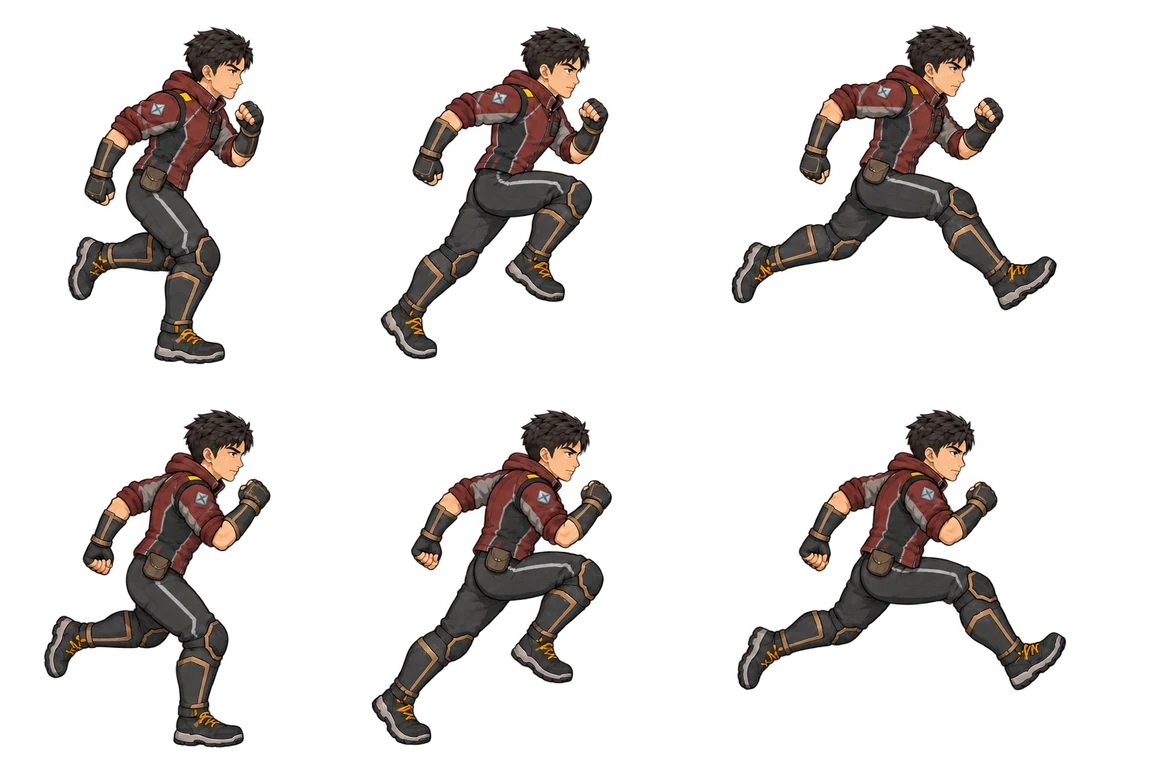
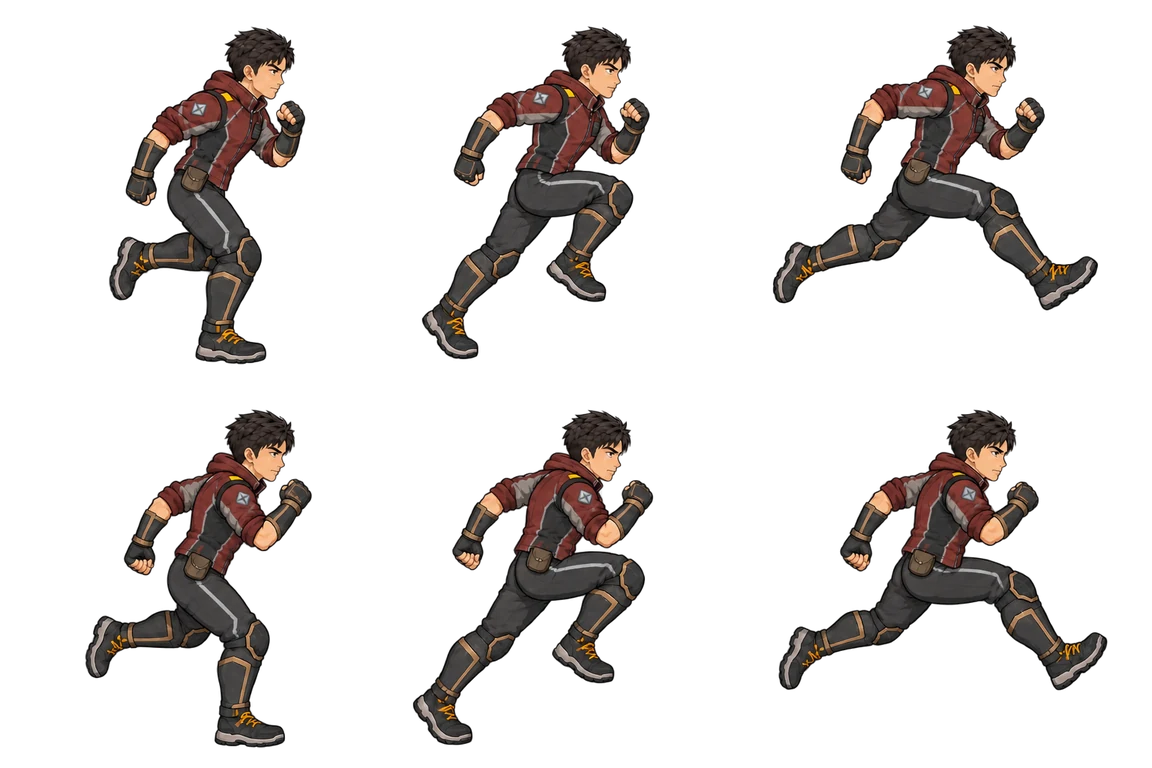
Fit River's and Fire's run poses into their cells; repack_cells shift mode
Claude-Session: https://claude.ai/code/session_0139SQ3paqJydhynh44z9WB6

diff --git a/tools/art/repack_cells.py b/tools/art/repack_cells.py
@@ -10,9 +10,13 @@ in the neighbouring cell and cuts the pose. This script:
     so the poses keep one size, and the sheet can come down to the idle size at the same time;
   * moves a pose sideways only as far as needed to keep MARGIN pixels from the cell border.
 
+With `shift` instead of a factor, nothing is scaled: every pose moves sideways by the same
+amount, the least that keeps all of them inside their cells (run cycles whose flight poses
+reach back past the border; one shift for all cells keeps the motion between frames).
+
 Usage (from the repository root; needs numpy, pillow and opencv-python-headless):
 
-    python3 tools/art/repack_cells.py <in.png> <out.png> <factor>
+    python3 tools/art/repack_cells.py <in.png> <out.png> <factor | shift>
 """
 
 from __future__ import annotations
@@ -29,7 +33,9 @@ MARGIN = 6
 def main() -> None:
     if len(sys.argv) != 4:
         raise SystemExit(__doc__)
-    src, dst, factor = sys.argv[1], sys.argv[2], float(sys.argv[3])
+    src, dst = sys.argv[1], sys.argv[2]
+    shift = sys.argv[3] == "shift"
+    factor = 1.0 if shift else float(sys.argv[3])
     im = np.array(Image.open(src).convert("RGBA"))
     h, w = im.shape[:2]
     cw, ch = w // 3, h // 2
@@ -41,6 +47,18 @@ def main() -> None:
             continue  # specks
         owner[i] = int(cen[i][1] // ch) * 3 + int(cen[i][0] // cw)
     out = np.zeros_like(im)
+    dx = 0
+    if shift:
+        lo, hi = cw, -cw  # least room on the left, most overshoot on the right
+        for c in range(6):
+            ids = np.nonzero(owner == c)[0]
+            if len(ids) == 0:
+                continue
+            xs = np.nonzero(np.isin(lab, ids) & (solid > 0))[1] - (c % 3) * cw
+            lo, hi = min(lo, xs.min() - MARGIN), max(hi, xs.max() + 1 + MARGIN - cw)
+        dx = -lo if lo < 0 else -hi if hi > 0 else 0
+        if lo + dx < 0 or hi + dx > 0:
+            raise SystemExit("no single shift keeps every pose inside its cell")
     for c in range(6):
         ids = np.nonzero(owner == c)[0]
         if len(ids) == 0:
@@ -54,7 +72,7 @@ def main() -> None:
         ax, ay = ox + cw / 2, y1  # foot point: cell centre, lowest pixel
         pw, ph = max(1, round((x1 - x0) * factor)), max(1, round((y1 - y0) * factor))
         piece = cv2.resize(piece, (pw, ph), interpolation=cv2.INTER_AREA)
-        nx = round(ax + (x0 - ax) * factor)
+        nx = round(ax + (x0 - ax) * factor) + dx
         ny = round(ay - ph)
         nx = min(max(nx, ox + MARGIN), ox + cw - MARGIN - pw)
         if pw > cw - 2 * MARGIN:
@@ -64,7 +82,7 @@ def main() -> None:
         region[:] = (piece * a + region * (1 - a)).astype(np.uint8)
         region[:, :, 3] = np.maximum(region[:, :, 3], piece[:, :, 3])
     Image.fromarray(out).save(dst)
-    print(f"{dst}: factor {factor}")
+    print(f"{dst}: " + (f"shift {dx} px" if shift else f"factor {factor}"))
 
 
 if __name__ == "__main__":

diff --git a/tools/art/import_art.py b/tools/art/import_art.py
@@ -50,12 +50,12 @@ APPROVED = {
     "HERO-RIV-WALK": "HERO-RIV-WALK_v4.png",
     # Run cycles with the legs and arms swapped in the second half (R9-R16, 2026-11-19).
     "HERO-MTN-RUN": "HERO-MTN-RUN_v2.png",
-    "HERO-RIV-RUN": "HERO-RIV-RUN_v2.png",
+    "HERO-RIV-RUN": "HERO-RIV-RUN_v2_fit.png",
     "HERO-WND-RUN": "HERO-WND-RUN_v2.png",
     "HERO-FIR-RUN": "HERO-FIR-RUN_v2.png",
     "HERO-MTN-S3-RUN": "HERO-MTN-S3-RUN_v2.png",
-    "HERO-RIV-S3-RUN": "HERO-RIV-S3-RUN_v2.png",
-    "HERO-FIR-S3-RUN": "HERO-FIR-S3-RUN_v2.png",
+    "HERO-RIV-S3-RUN": "HERO-RIV-S3-RUN_v2_fit.png",
+    "HERO-FIR-S3-RUN": "HERO-FIR-S3-RUN_v2_fit.png",
     # R15: v2 had a smoky half-transparent background; v3 is clean, moved 40 px right in every
     # cell so the flight poses stay inside their cells (_v3_fit).
     "HERO-WND-S3-RUN": "HERO-WND-S3-RUN_v3_fit.png",

diff --git a/Guo_tests.md b/Guo_tests.md
@@ -1893,3 +1893,16 @@ pnpm dev
 2. **Runs, Stage 3 outfit:** in a Stage 3 room (Lab, F1, Arena list), run as all four heroes: the same alternation.
 3. **Wind's lance:** in Stage 2, pick up the Service Lance as Wind and use its moves (pickup, sweep, thrust, block, pull, throw). Wind stays the size of her idle pose in every move, and no stray foot or lance end shows next to her.
 4. **Fire's lance:** the same with Fire.
+
+## River's run without the stray foot, and the lance stance (2026-11-19)
+
+**What changed:** In River's run, River's Stage 3 run and Fire's Stage 3 run, the back foot of the flight poses reached into the next cell, so a small piece of the next pose showed in front of the hero. The poses are now shifted into their cells (`_v2_fit`). The lance stance: Wind and Fire already use the redrawn lance sheets (RD01/RD02) on this branch and stay at idle size. Mountain's and River's lance sheets draw the stance about 20 % smaller than idle; that needs the redraws RD03/RD04 (Pictures `picture_redraw_prompts.md`) and is not fixed yet.
+
+### Test steps
+
+Use the commands of the section above (this branch).
+
+1. **River's run:** run as River (double-tap and hold **D**), in the Stage 1/2 outfit and in a Stage 3 room. No piece of a foot or leg shows in front of or behind her.
+2. **Fire's Stage 3 run:** the same as Fire in a Stage 3 room.
+3. **Wind's and Fire's lance:** Lab, Stage 2 Systems Saboteur, pick up the lance as Wind and as Fire: holding it, they stay the size of their idle pose.
+4. **Mountain and River:** still smaller while holding the lance (known, waits for RD03/RD04).
